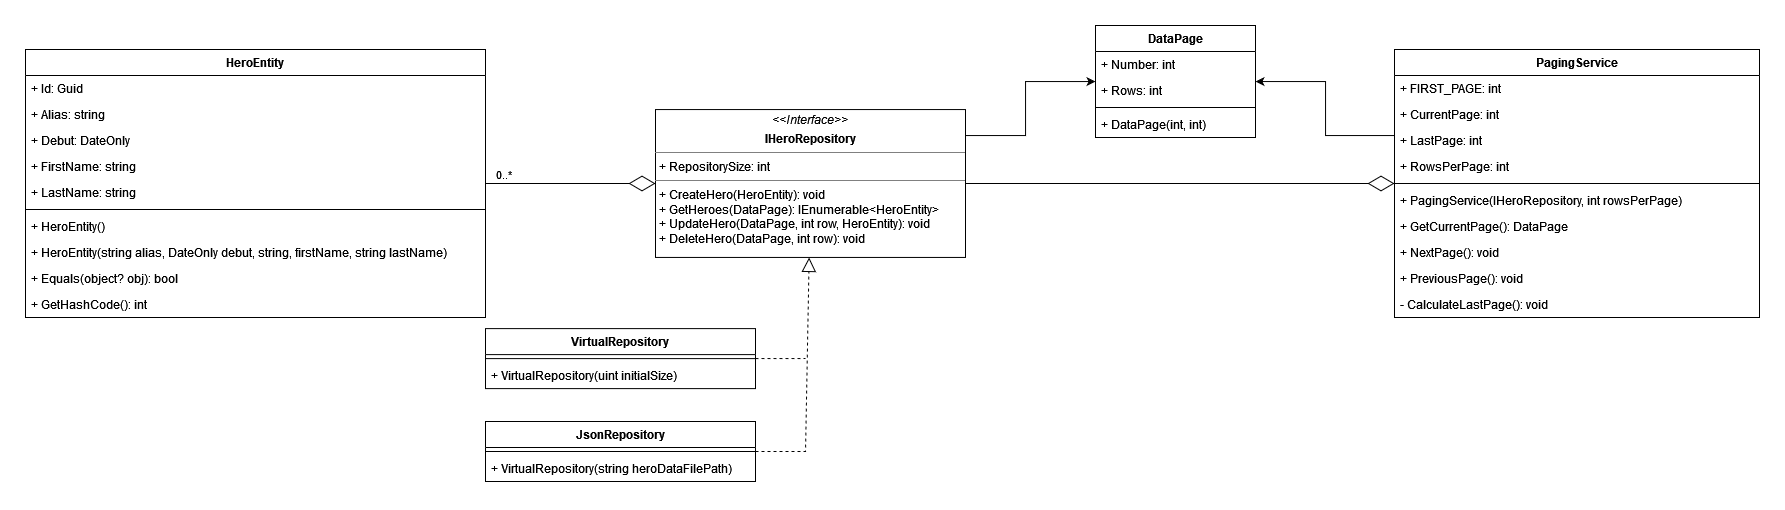
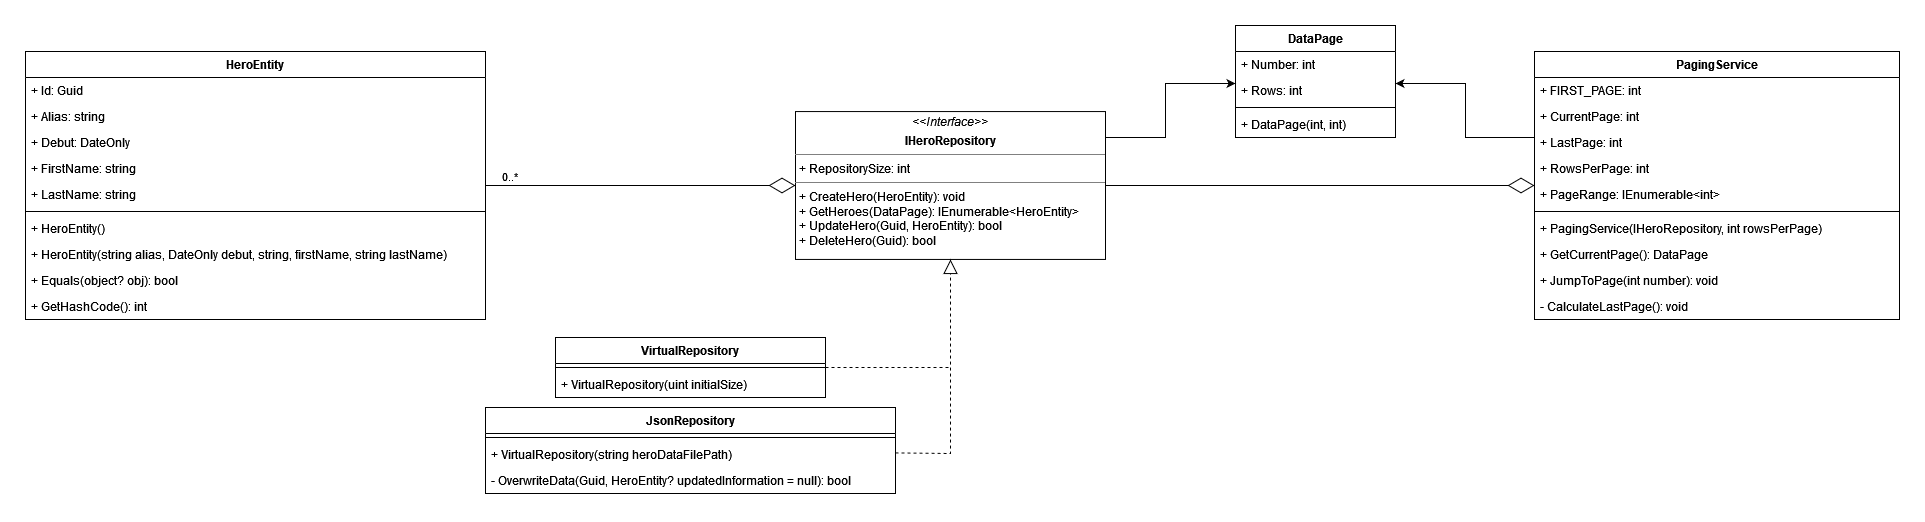
Reestruture CrudDaJustica.Data.Lib

diff --git a/src/CrudDaJustica.Data.Lib/Repository/JsonRepository.cs b/src/CrudDaJustica.Data.Lib/Repository/JsonRepository.cs
@@ -1,8 +1,8 @@
 using CrudDaJustica.Data.Lib.Model;
-using CrudDaJustica.Data.Lib.Services;
+using CrudDaJustica.Data.Lib.Service;
 using System.Text.Json;
 
-namespace CrudDaJustica.Data.Lib.Data;
+namespace CrudDaJustica.Data.Lib.Repository;
 
 /// <summary>
 /// Represents a repository that stores information in a JSON file.

diff --git a/src/CrudDaJustica.Cli.App/Controller/HeroController.cs b/src/CrudDaJustica.Cli.App/Controller/HeroController.cs
@@ -1,7 +1,7 @@
 using CrudDaJustica.Cli.App.Model;
-using CrudDaJustica.Data.Lib.Data;
 using CrudDaJustica.Data.Lib.Model;
-using CrudDaJustica.Data.Lib.Services;
+using CrudDaJustica.Data.Lib.Repository;
+using CrudDaJustica.Data.Lib.Service;
 using System.Globalization;
 
 namespace CrudDaJustica.Cli.App.Controller;

diff --git a/src/CrudDaJustica.Data.Lib/Repository/IHeroRepository.cs b/src/CrudDaJustica.Data.Lib/Repository/IHeroRepository.cs
@@ -1,7 +1,7 @@
 using CrudDaJustica.Data.Lib.Model;
-using CrudDaJustica.Data.Lib.Services;
+using CrudDaJustica.Data.Lib.Service;
 
-namespace CrudDaJustica.Data.Lib.Data;
+namespace CrudDaJustica.Data.Lib.Repository;
 
 /// <summary>
 /// Represents a repository that stores information about <see cref="HeroEntity"/>.

diff --git a/test/CrudDaJustica.Data.Lib.Tests/DataTests/JsonRepositoryTest.cs b/test/CrudDaJustica.Data.Lib.Tests/DataTests/JsonRepositoryTest.cs
@@ -1,6 +1,6 @@
-using CrudDaJustica.Data.Lib.Data;
+using CrudDaJustica.Data.Lib.Repository;
 using CrudDaJustica.Data.Lib.Model;
-using CrudDaJustica.Data.Lib.Services;
+using CrudDaJustica.Data.Lib.Service;
 using Microsoft.VisualStudio.TestPlatform.ObjectModel;
 using System.Text.Json;
 

diff --git a/src/CrudDaJustica.Data.Lib/Repository/VirtualRepository.cs b/src/CrudDaJustica.Data.Lib/Repository/VirtualRepository.cs
@@ -1,7 +1,7 @@
 using CrudDaJustica.Data.Lib.Model;
-using CrudDaJustica.Data.Lib.Services;
+using CrudDaJustica.Data.Lib.Service;
 
-namespace CrudDaJustica.Data.Lib.Data;
+namespace CrudDaJustica.Data.Lib.Repository;
 
 /// <summary>
 /// Represents a repository that stores data in memory.

diff --git a/src/CrudDaJustica.Cli.App/Program.cs b/src/CrudDaJustica.Cli.App/Program.cs
@@ -1,7 +1,7 @@
 using CrudDaJustica.Cli.App.Controller;
 using CrudDaJustica.Cli.App.View;
-using CrudDaJustica.Data.Lib.Data;
-using CrudDaJustica.Data.Lib.Services;
+using CrudDaJustica.Data.Lib.Repository;
+using CrudDaJustica.Data.Lib.Service;
 
 const int INITIAL_ROWS_PER_PAGE = 10;
 

diff --git a/src/CrudDaJustica.Data.Lib/Service/PagingService.cs b/src/CrudDaJustica.Data.Lib/Service/PagingService.cs
@@ -1,7 +1,7 @@
-using CrudDaJustica.Data.Lib.Data;
+using CrudDaJustica.Data.Lib.Repository;
 using System.Text;
 
-namespace CrudDaJustica.Data.Lib.Services;
+namespace CrudDaJustica.Data.Lib.Service;
 
 /// <summary>
 /// Represents a service that does data paging in a repository.

diff --git a/test/CrudDaJustica.Data.Lib.Tests/ServicesTests/PagingServiceTest.cs b/test/CrudDaJustica.Data.Lib.Tests/ServicesTests/PagingServiceTest.cs
@@ -1,5 +1,5 @@
-using CrudDaJustica.Data.Lib.Data;
-using CrudDaJustica.Data.Lib.Services;
+using CrudDaJustica.Data.Lib.Repository;
+using CrudDaJustica.Data.Lib.Service;
 
 namespace CrudDaJustica.Data.Lib.Test.ServicesTests;
 

diff --git a/src/CrudDaJustica.Data.Lib/Service/DataPage.cs b/src/CrudDaJustica.Data.Lib/Service/DataPage.cs
@@ -1,6 +1,6 @@
 using System.Text;
 
-namespace CrudDaJustica.Data.Lib.Services;
+namespace CrudDaJustica.Data.Lib.Service;
 
 /// <summary>
 /// Represents a page of information in a repository.
